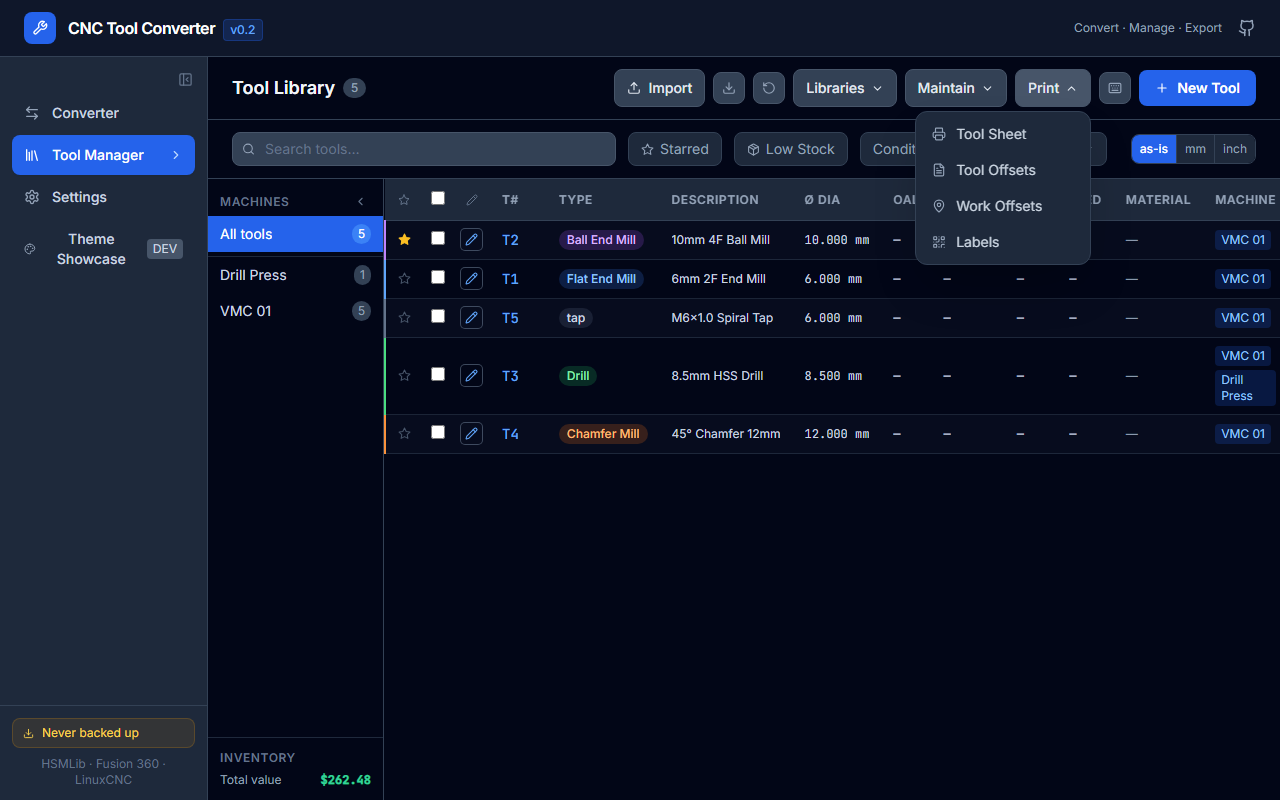
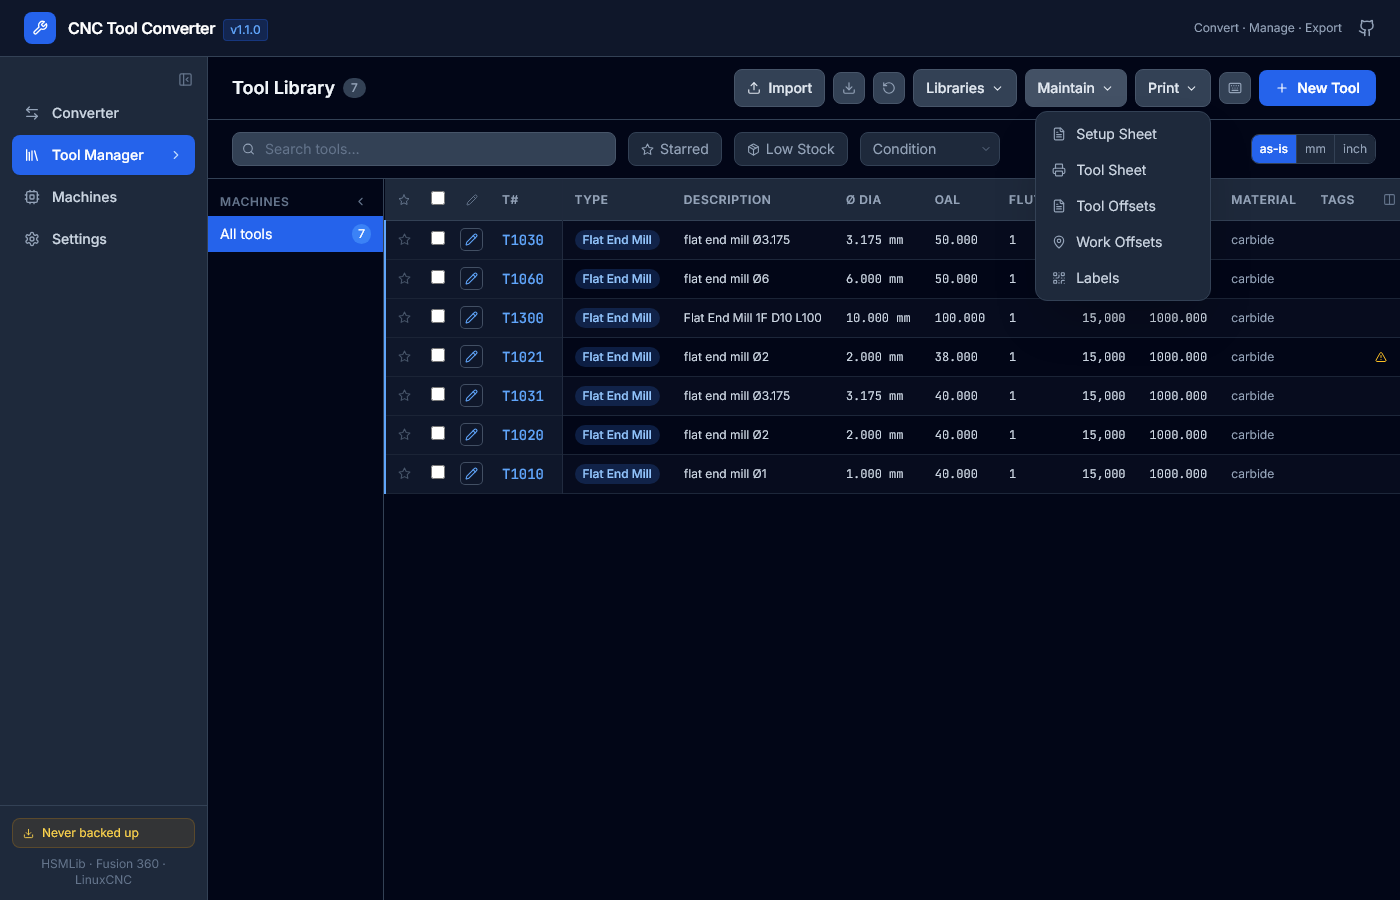
docs: align wiki with current UI layout and refresh screenshots
Wiki fixes:
- Editing-Tools: correct tab list (Library, Geometry+Assembly, Offsets, Cutting, NC, Crib);
  remove non-existent Assembly tab; add Offsets and NC tab descriptions
- Tool-Library: add Libraries/Maintain/Print dropdown reference tables with all current items
  (Tool Sets, Setup Sheet, Supplier Invoice Import)
- Getting-Started: sidebar shows Tool Manager (not Tool Library); add Machines entry;
  fix import button label (Add N tools); fix toolbar button lists
- Home: updated in previous commit

Screenshots: regenerated all 13 screenshots via Playwright against current build.
All show current dark theme v1.1.0 UI with populated library and correct dropdowns.

Changed region(s): [[0.0, 0.0, 1.0, 1.0], [0.7812, 0.4375, 0.9062, 0.5312], [0.25, 0.9688, 0.3125, 1.0]]

diff --git a/e2e/screenshots.spec.ts b/e2e/screenshots.spec.ts
@@ -1,0 +1,131 @@
+/**
+ * One-off screenshot capture for wiki documentation.
+ * Run: npx playwright test e2e/screenshots.spec.ts --project=web-chrome
+ */
+import { test } from '@playwright/test';
+import path from 'path';
+
+const OUT = path.resolve('wiki/screenshots');
+const EXAMPLE_HSMLIB = path.resolve('Example Files/Tool Libs/InventorCAM/100 1F Wood.hsmlib');
+
+// Suppress the "What's New" modal
+const SUPPRESS = () => {
+  localStorage.setItem('cnc-tool-converter:lastSeenVersion', '1.1.0');
+};
+
+test.use({ viewport: { width: 1400, height: 900 } });
+test.setTimeout(60_000);
+
+async function goToLibrary(page: any) {
+  await page.getByRole('button', { name: /Tool Manager/i }).first().click();
+  await page.getByRole('button', { name: /New Tool/i }).waitFor({ state: 'visible' });
+}
+
+/** Import a sample hsmlib file so the toolbar shows Maintain and Print */
+async function seedLibrary(page: any) {
+  await page.getByRole('button', { name: /^Import$/i }).click();
+  await page.locator('text=Drop files').first().waitFor({ state: 'visible' });
+  // Target the hidden file input by aria-label
+  const fileInput = page.locator('[aria-label="Select files"]').last();
+  await fileInput.setInputFiles(EXAMPLE_HSMLIB);
+  // Wait for tools to appear and click the import button
+  const importBtn = page.getByRole('button', { name: /^Add \d+/i });
+  await importBtn.waitFor({ state: 'visible', timeout: 10000 });
+  await importBtn.click();
+  // Wait for "Import complete" then close the panel
+  await page.locator('text=Import complete').waitFor({ state: 'visible', timeout: 10000 });
+  await page.getByRole('button', { name: /^Close$/i }).last().click();
+  await page.locator('.fixed.right-0.top-0.h-full').waitFor({ state: 'hidden', timeout: 5000 }).catch(() => {});
+  await page.getByRole('button', { name: /Maintain/i }).waitFor({ state: 'visible', timeout: 5000 });
+}
+
+test('converter page', async ({ page }) => {
+  await page.addInitScript(SUPPRESS);
+  await page.goto('/');
+  await page.waitForLoadState('domcontentloaded');
+  await page.getByText(/Source Format/i).first().waitFor({ state: 'visible' });
+  await page.screenshot({ path: `${OUT}/converter-page.png` });
+
+  // Pick a source and target format
+  const selects = page.locator('select');
+  await selects.nth(0).selectOption({ index: 2 }).catch(() => {});
+  await selects.nth(1).selectOption({ index: 3 }).catch(() => {});
+  await page.screenshot({ path: `${OUT}/converter-format-selected.png` });
+});
+
+test('tool library page + dropdowns', async ({ page }) => {
+  await page.addInitScript(SUPPRESS);
+  await page.goto('/');
+  await page.waitForLoadState('domcontentloaded');
+  await goToLibrary(page);
+  await seedLibrary(page);
+  await page.screenshot({ path: `${OUT}/tool-library-page.png` });
+
+  // Libraries dropdown
+  await page.getByRole('button', { name: /Libraries/i }).click();
+  await page.locator('text=Materials').first().waitFor({ state: 'visible' });
+  await page.screenshot({ path: `${OUT}/libraries-dropdown.png` });
+  // Close by clicking the button again
+  await page.getByRole('button', { name: /Libraries/i }).click();
+  await page.locator('text=Materials').first().waitFor({ state: 'hidden' });
+
+  // Maintain dropdown
+  await page.getByRole('button', { name: /Maintain/i }).click();
+  await page.locator('text=Renumber').first().waitFor({ state: 'visible' });
+  await page.screenshot({ path: `${OUT}/maintain-dropdown.png` });
+  await page.getByRole('button', { name: /Maintain/i }).click();
+  await page.locator('text=Renumber').first().waitFor({ state: 'hidden' });
+
+  // Print dropdown
+  await page.getByRole('button', { name: /Print/i }).click();
+  await page.locator('text=Tool Sheet').first().waitFor({ state: 'visible' });
+  await page.screenshot({ path: `${OUT}/print-dropdown.png` });
+  await page.getByRole('button', { name: /Print/i }).click();
+});
+
+test('import panel', async ({ page }) => {
+  await page.addInitScript(SUPPRESS);
+  await page.goto('/');
+  await page.waitForLoadState('domcontentloaded');
+  await goToLibrary(page);
+  await page.getByRole('button', { name: /^Import$/i }).click();
+  await page.locator('text=Drop').first().waitFor({ state: 'visible' });
+  await page.screenshot({ path: `${OUT}/import-panel.png` });
+});
+
+test('tool editor tabs', async ({ page }) => {
+  await page.addInitScript(SUPPRESS);
+  await page.goto('/');
+  await page.waitForLoadState('domcontentloaded');
+  await goToLibrary(page);
+  await page.getByRole('button', { name: /New Tool/i }).click();
+  await page.locator('text=Tool Number').first().waitFor({ state: 'visible' });
+
+  await page.screenshot({ path: `${OUT}/tool-editor-library-tab.png` });
+
+  await page.getByRole('button', { name: /^Geometry$/i }).click();
+  await page.locator('text=Diameter').first().waitFor({ state: 'visible' });
+  await page.screenshot({ path: `${OUT}/tool-editor-geometry.png` });
+
+  await page.getByRole('button', { name: /^Cutting$/i }).click();
+  await page.locator('text=RPM').first().waitFor({ state: 'visible' });
+  await page.screenshot({ path: `${OUT}/tool-editor-cutting.png` });
+
+  await page.getByRole('button', { name: /^Crib$/i }).click();
+  await page.locator('text=Use').first().waitFor({ state: 'visible' });
+  await page.screenshot({ path: `${OUT}/tool-editor-crib.png` });
+});
+
+test('settings page', async ({ page }) => {
+  await page.addInitScript(SUPPRESS);
+  await page.goto('/');
+  await page.waitForLoadState('domcontentloaded');
+  await page.getByRole('button', { name: /Settings/i }).first().click();
+  await page.locator('text=Theme').first().waitFor({ state: 'visible' });
+  await page.screenshot({ path: `${OUT}/settings-page.png` });
+
+  // Scroll to bottom to show Remote Database section
+  await page.evaluate(() => window.scrollTo(0, document.body.scrollHeight));
+  await page.waitForTimeout(300);
+  await page.screenshot({ path: `${OUT}/settings-remote-db.png` });
+});

diff --git a/wiki/Editing-Tools.md b/wiki/Editing-Tools.md
@@ -12,14 +12,15 @@
 
 ## Editor layout
 
-The editor is a slide-over panel on the right side of the screen. It has five tabs:
+The editor is a slide-over panel on the right side of the screen. It has six tabs:
 
 | Tab | Contents |
 |-----|---------|
-| **Geometry** | Type, diameter, shaft dia, OAL, flute length, flutes, corner radius, taper angle, tip dia, thread pitch; live SVG profile preview |
-| **Cutting** | Spindle RPM, all feed rates, feed mode, coolant, clockwise direction |
 | **Library** | Tags, machine groups, supplier, location, unit cost, notes, tool image |
-| **Assembly** | Holder assignment, stick-out visualisation, compatibility check |
+| **Geometry** | Type, diameter, shaft dia, OAL, flute length, flutes, corner radius, taper angle, tip dia, thread pitch; live SVG profile preview; holder assignment + stick-out (Assembly section) |
+| **Offsets** | Tool offset registers: X, Y, Z, A, B, C, U, V, W |
+| **Cutting** | Spindle RPM, all feed rates, feed mode, coolant, clockwise direction; per-material F&S entries |
+| **NC** | NC-specific flags: break control, live tool, turret number, manual tool change |
 | **Crib** | Lifecycle (use count, regrind threshold), stock history, change log, custom fields |
 
 ---
@@ -30,7 +31,7 @@ The editor is a slide-over panel on the right side of the screen. It has five ta
 
 The **Geometry** tab shows a cross-section profile of the tool, rendered in real time as you change values. The profile adapts to tool type — flat end mill, ball end mill, bull nose, drill, chamfer, tap, reamer, boring bar, and more.
 
-When a holder is assigned (Assembly tab), the profile extends to show the holder shank and bore with an annotated stick-out measurement.
+When a holder is assigned (Assembly section of the Geometry tab), the profile extends to show the holder shank and bore with an annotated stick-out measurement.
 
 ---
 
@@ -59,11 +60,32 @@ In the **Library** tab:
 
 ---
 
-## Assembly tab
+## Assembly (Geometry tab)
+
+At the bottom of the **Geometry** tab:
 
 1. Search for a holder by name using the search field.
-2. Select one — the SVG preview updates to show the combined assembly.
+2. Select one — the SVG preview updates to show the combined assembly with stick-out annotation.
 3. If the tool's shaft diameter is outside the holder's collet range, an orange warning appears.
+
+---
+
+## Offsets tab
+
+Stores the tool's machine offset registers (X, Y, Z, A, B, C, U, V, W). These are the values written to the machine controller's offset table — distinct from the tool's geometry dimensions.
+
+---
+
+## NC tab
+
+NC-specific flags used by some machine controllers:
+
+| Field | Description |
+|-------|-------------|
+| **Break control** | Whether the machine should check for tool breakage |
+| **Live tool** | Mark as a live (driven) tool (lathe turrets) |
+| **Turret** | Turret number assignment |
+| **Manual tool change** | Flag that this tool requires a manual change cycle |
 
 ---
 

diff --git a/wiki/Getting-Started.md b/wiki/Getting-Started.md
@@ -65,13 +65,14 @@ The `dist/` folder is a static site — deploy it on GitHub Pages, Netlify, Clou
 
 ## First run
 
-When you first open the app you'll see three pages in the left sidebar:
+When you first open the app you'll see four items in the left sidebar:
 
-| Page | Purpose |
-|------|---------|
-| **Converter** | Convert tool library files between formats |
-| **Tool Library** | Manage a persistent local library of tools |
-| **Settings** | Configure the app |
+| Sidebar button | Page | Purpose |
+|----------------|------|---------|
+| **Converter** | Converter | Convert tool library files between formats |
+| **Tool Manager** | Tool Library | Manage a persistent local library of tools |
+| **Machines** | Machines | Configure machine groups |
+| **Settings** | Settings | Configure the app |
 
 The sidebar is collapsible — click the **◀ / ▶** arrow at the bottom to toggle it.
 
@@ -95,7 +96,7 @@ The sidebar is collapsible — click the **◀ / ▶** arrow at the bottom to to
 
 ## Your first library entry
 
-1. Go to the **Tool Library** page.
+1. Click **Tool Manager** in the sidebar to open the Tool Library.
 2. Click **New Tool** (top right) — the tool editor opens.
 3. Fill in at minimum: **Tool Number**, **Type**, and **Diameter**.
 4. Click **Save** (or press `Ctrl+S`).
@@ -106,10 +107,10 @@ The tool is now saved permanently in your browser's IndexedDB.
 
 ## Importing an existing tool library
 
-1. Go to the **Tool Library** page.
+1. Click **Tool Manager** in the sidebar to open the Tool Library.
 2. Click **Import**.
 3. Drop a tool library file onto the panel.
-4. Review duplicates and click **Import N tools**.
+4. Review any duplicates and click **Add N tools** (or **Import**) to confirm.
 
 See [Importing Tools](Importing-Tools) for full details.
 
@@ -137,9 +138,9 @@ Both builds persist data between sessions automatically.
 | **Import** | Load tools from a file |
 | **Export N** | Export selected (or all) tools |
 | **Low Stock** | Red — appears when tools are at/below reorder point |
-| **Libraries ▾** | Materials, Holders, Templates |
-| **Maintain ▾** | Find Duplicates, Renumber, Issues, Scan QR, F&S Wizard, Snapshots |
-| **Print ▾** | Tool Sheet, Tool Offsets, Work Offsets, Labels |
+| **Libraries ▾** | Materials, Holders, Templates, Jobs, Tool Sets |
+| **Maintain ▾** | Find Duplicates, Renumber, Issues, Scan QR, F&S Wizard, Snapshots, Supplier Invoice |
+| **Print ▾** | Setup Sheet, Tool Sheet, Tool Offsets, Work Offsets, Labels |
 | **?** | Keyboard shortcut help |
 | **☁** | Remote sync (only visible when a URL is configured in Settings) |
 | **New Tool** | Open the editor to create a tool |

diff --git a/wiki/Tool-Library.md b/wiki/Tool-Library.md
@@ -18,7 +18,7 @@ The **Print ▾** dropdown gives access to output options:
 
 ![Print dropdown](screenshots/print-dropdown.png)
 
-The **Libraries ▾** dropdown gives access to Materials, Holders, Templates, and Jobs:
+The **Libraries ▾** dropdown gives access to Materials, Holders, Templates, Jobs, and Tool Sets:
 
 ![Libraries dropdown](screenshots/libraries-dropdown.png)
 
@@ -130,3 +130,41 @@ Total: £1,234.56   ⚠ 3 low stock
 ```
 
 This is `Σ(unitCost × quantity)` across all visible tools. The low-stock count is a link to the Low Stock dashboard.
+
+---
+
+## Libraries ▾ contents
+
+| Item | Description |
+|------|-------------|
+| **Materials** | Work material library (used for per-material F&S data) |
+| **Holders** | Tool holder library (used for assembly / stick-out view) |
+| **Templates** | Saved tool templates — stamp out new tools with one click |
+| **Jobs** | Named job tool lists (BOM sheets); export as PDF or CSV |
+| **Tool Sets** | Saved groups of tools — similar to Jobs but lighter weight; reusable named subsets (e.g. "Roughing set", "Finishing set") that can be exported as CSV |
+
+---
+
+## Maintain ▾ contents
+
+| Item | Description |
+|------|-------------|
+| **Find Duplicates** | Detect tools with duplicate T numbers, descriptions, or diameters |
+| **Renumber** | Resequence T numbers with configurable start and step; live before/after preview |
+| **Issues** | Validation scanner — finds missing descriptions, zero diameters, low stock, etc. |
+| **Scan QR** | Open QR code scanner to look up a tool by its label QR code |
+| **F&S Wizard** | 3-step guided cutting-data entry (tool + material → grade + DOC → apply) |
+| **Snapshots** | Save and restore point-in-time library snapshots |
+| **Supplier Invoice** | Import a supplier delivery note / packing slip CSV to auto-update stock quantities and unit costs |
+
+---
+
+## Print ▾ contents
+
+| Item | Description |
+|------|-------------|
+| **Setup Sheet** | PDF machine setup sheet: tool list with T#, description, diameter, holder, stick-out, and offset for a selected machine group |
+| **Tool Sheet** | Compact multi-column PDF reference card for selected tools |
+| **Tool Offsets** | Plain-text `.txt` offset reference card (T#, diameter, Z-offset, flutes, description) |
+| **Work Offsets** | G54–G59 work offset reference sheet — dialect-aware (Fanuc / HAAS / Mach3 / LinuxCNC / Siemens); export as `.txt` or `.csv` |
+| **Labels** | Printable QR-coded bin labels; configurable size, fields, and QR content |
